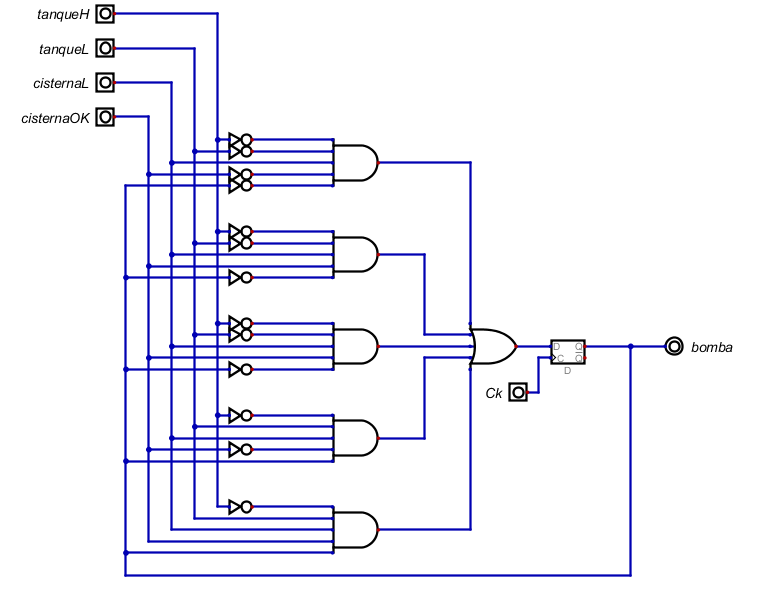
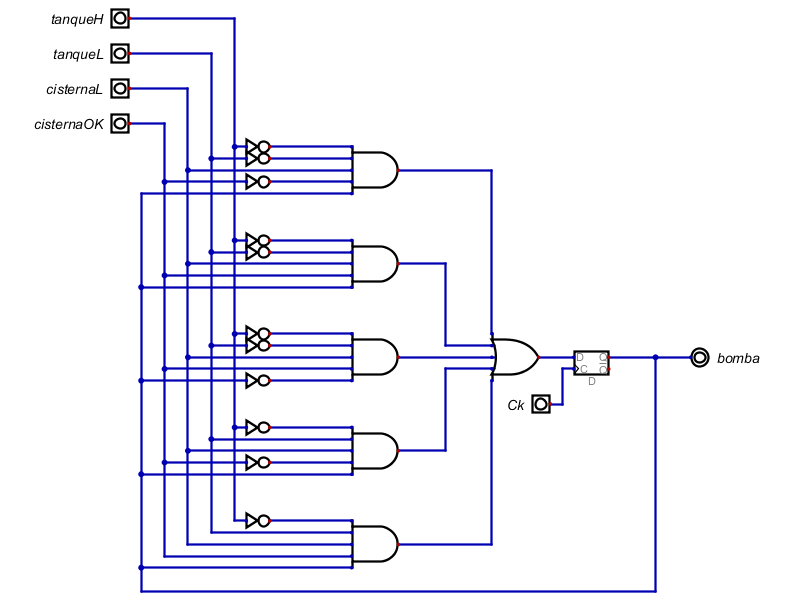
Corregido

Changed region(s): [[0.03, 0.0, 0.9596, 0.995]]

diff --git a/informe_control_bomba.md b/informe_control_bomba.md
@@ -66,6 +66,8 @@ Podemos implementar la función anterior, usando compuertas lógicas y un FlipFl
 
 **Nota:** Con el fin de obtener un esquemático más comprensible y prolijo, se optó por incorporar compuertas NOT en cada una de las entradas de las compuertas OR en las que las señales deben aparecer negadas. En la realidad, lo más prudente sería tener cables con cada uno de los valores de las señales y las señales negadas, y simplemente conectar a las compuertas las que correspondan.
 
+**Observación Importante:** El circuito anterior demora un ciclo de reloj entre que se debería apagar y que se apague, de modo que el tanque puede llegar a rebalsar. Para evitar esta situación, se optó por usar un reloj DIFERENTE para el controlador de la bomba, cuya frecuencia sea mayor que la del circuito de simulación (En particular, se usó un reloj con el doble de frecuencia).
+
 ## Conclusiones
 
 Se realizó una simulación de del circuito anterior, empleando el programa *Digital* y se concluyó que el mismo funciona de acuerdo a lo esperado.
